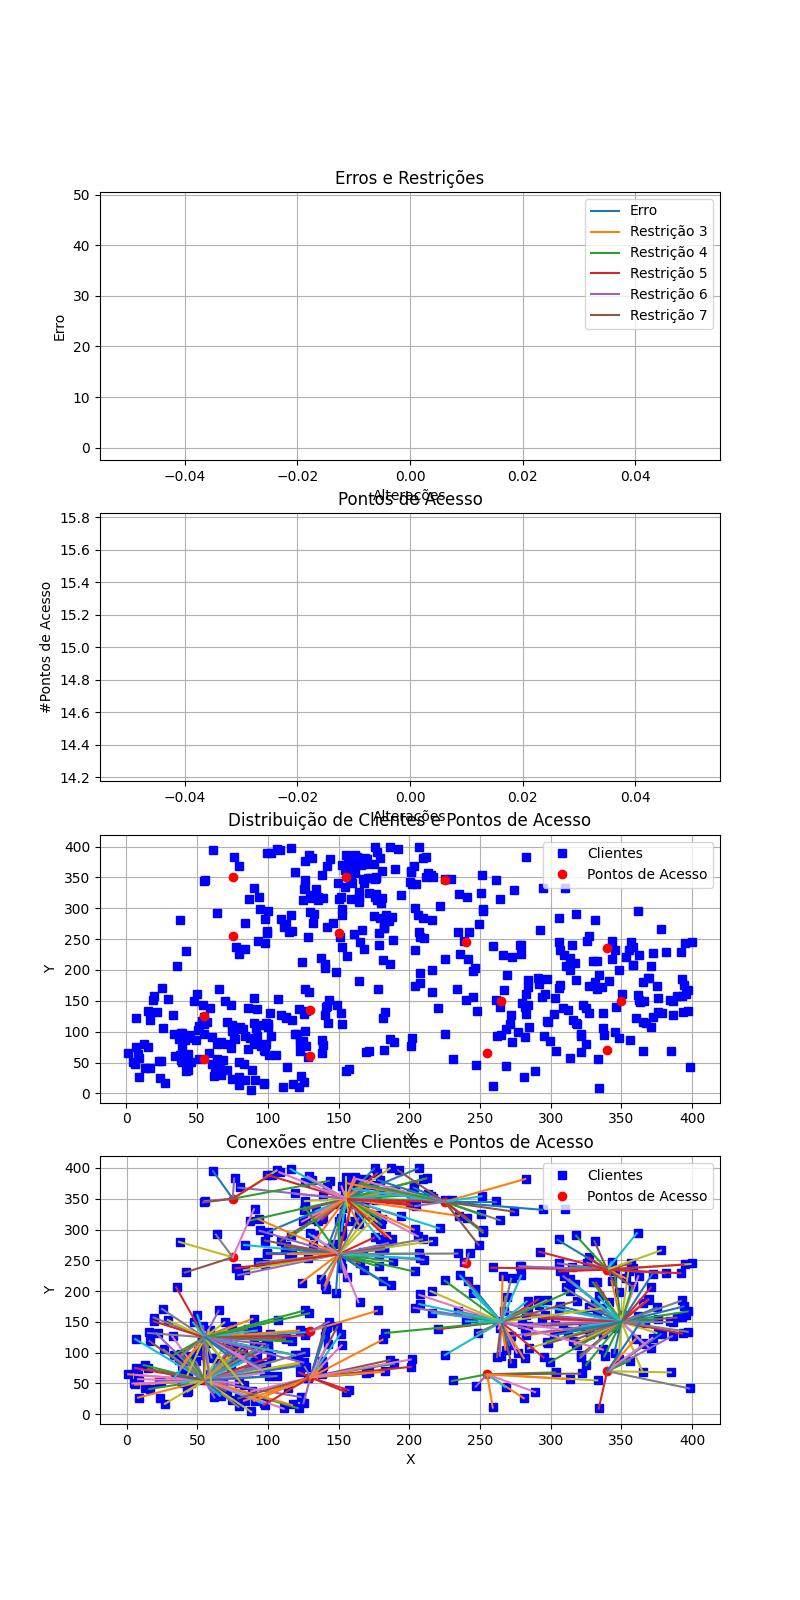
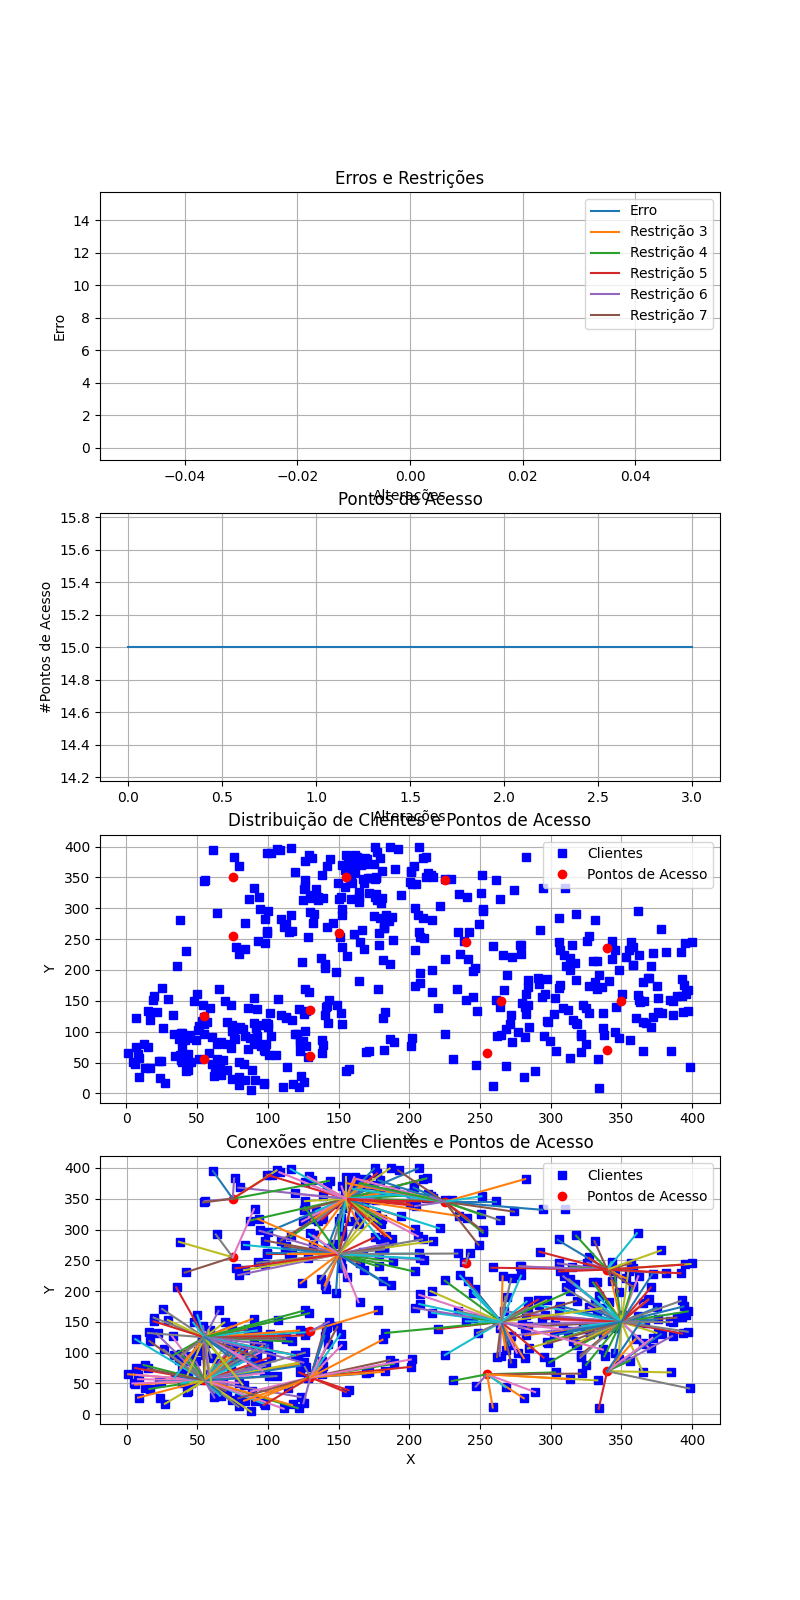
add: no tolerance to restraints

diff --git a/1 entrega/mop_solution/basicvns.py b/1 entrega/mop_solution/basicvns.py
@@ -1,14 +1,11 @@
 import numpy as np
-import os,sys,math, copy, pickle
-from scipy.spatial import distance
-from random import seed,random,randint
+import sys, copy
+from random import seed
 from estrutura_vizinhanca import k1,k2,k3,k4
 from restricoes import r3,r4,r5,r6,r7,sum_restr
 from graph_maker import plot_infos
 from solution import sol_zero
 import pandas as pd
-import matplotlib.pyplot as plt
-from sklearn.cluster import DBSCAN
 
 
 seed(321)
@@ -29,18 +26,19 @@ def basic_VNS(dados, f, k_max, max_int, plot, n_plot):
 
     y = f(dados)
 
-    # while(nfe < max_int):
-    #     print(f"{nfe}a interacao")
-    #     print('f(x) inicial: {:.4f}'.format(y))
-    #     k = 1
-    #     while(k<=k_max):
-    #         print('f(x): {:.4f} | k = {}'.format(y,k))
-    #         dados_ = shake(copy.copy(dados),k) # Solução na kesima vizinhança
-    #         dados__ = best_change(copy.copy(dados_), f)
-    #         dados, k = neigh_change(copy.copy(dados), copy.copy(dados__), k, f) # atualiza x
-    #         y = f(dados)
-    #         #update log
-    n_ap.append(np.sum(dados['uso_PAs']))
+    while(nfe < max_int):
+        print(f"{nfe}a interacao")
+        print('f(x) inicial: {:.4f}'.format(y))
+        k = 1
+        while(k<=k_max):
+            print('f(x): {:.4f} | k = {}'.format(y,k))
+            dados_ = shake(copy.copy(dados),k) # Solução na kesima vizinhança
+            dados__ = best_change(copy.copy(dados_), f)
+            dados, k = neigh_change(copy.copy(dados), copy.copy(dados__), k, f) # atualiza x
+            y = f(dados)
+            #update log
+            n_ap.append(np.sum(dados['uso_PAs']))
+        nfe +=1
 
     y_save.append(y)
     r3_save.append(r3(dados))
@@ -48,12 +46,11 @@ def basic_VNS(dados, f, k_max, max_int, plot, n_plot):
     r5_save.append(r5(dados))
     r6_save.append(r6(dados))
     r7_save.append(r7(dados))
-        
 
     if plot and nfe % n_plot == 0:
         log = [y_save, r3_save, r4_save, r5_save, r6_save, r7_save, n_ap]
         plot_infos(dados, log, 'output/mop_graphs/info/', str(nfe))
-    nfe +=1
+        
     return dados, [y_save, r3_save, r4_save, r5_save, r6_save, r7_save, n_ap]
 
 #aplica perturbação
@@ -69,10 +66,11 @@ def shake(dados, k):
 
 #função do numero de PAs a ser instalado
 def f1(dados):
-    print("oi")
     uso_PAs = dados['uso_PAs']
     f1 = sum(uso_PAs)
-    f1_penal = f1 + 10 * (sum_restr(dados))
+    if (sum_restr(dados) > 0):
+            return 1e24
+    f1_penal = f1
 
     return f1_penal
 
@@ -88,8 +86,9 @@ def f2(dados):
     for id_c,c in enumerate(coord_clientes):
         for id_p,p in enumerate(possiveis_coord_PA):
             f2_value += dist_cliente_PA[id_c, id_p] * cliente_por_PA[id_c][id_p]
-    
-    f2_penal = f2_value + 10 * (sum_restr(dados))
+    if (sum_restr(dados) > 0):
+        return 1e24
+    f2_penal = f2_value
 
     return f2_penal
 
@@ -150,7 +149,7 @@ if __name__ == "__main__":
     #Inicializa variáveis
     sizex = (0,400)
     sizey = (0,400)
-    dist_grid_PAs = 20
+    dist_grid_PAs = 10
     grid_PAs = (dist_grid_PAs,dist_grid_PAs)
     num_possiveis_alocacoes = int((sizex[1]*sizey[1])/ (grid_PAs[0]*grid_PAs[1]))  
     coord_clientes = mtx_clientes[:,:2]  # coordenadas dos clientes (x,y)

diff --git a/1 entrega/mop_solution/solution.py b/1 entrega/mop_solution/solution.py
@@ -66,7 +66,7 @@ def sol_zero(dados):
                         consumo_atual_pa += dados['cons_clientes'][i]
             cliente_por_PA = dados["cliente_por_PA"]
             dados['uso_PAs'] = uso_PAs
-            
+
         if sum_restr(dados) == 0:
             break
 
@@ -90,7 +90,7 @@ def calcular_distancias_cliente_PA(coord_clientes, coord_PAs, cliente_por_PA):
     for i, cliente in enumerate(coord_clientes):
         for j, pa in enumerate(coord_PAs):
             distancias[i, j] = np.linalg.norm(cliente - pa) * cliente_por_PA[i][j]
-    return distancias / len(coord_clientes)
+    return distancias
 
 def encontrar_divisores(numero):
     if numero <= 0:
